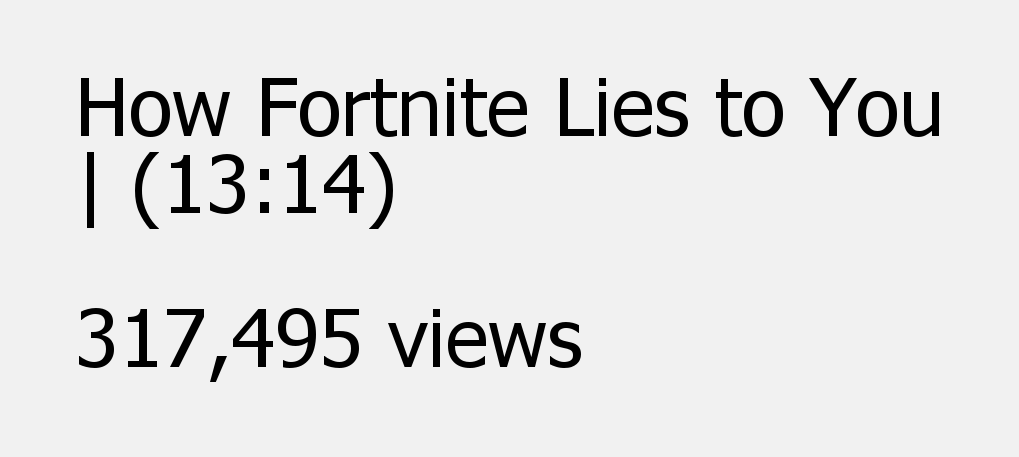
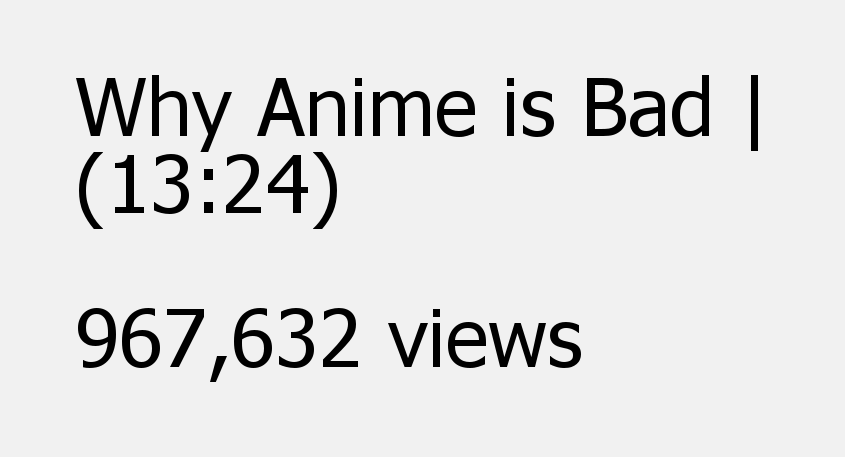
config file, scheduling working

Changed region(s): [[0.0615, 0.1532, 0.9231, 0.5208], [0.0615, 0.674, 0.7077, 0.8271]]

diff --git a/bot.js b/bot.js
@@ -1,10 +1,22 @@
-const PAGE_ID = "111183643597806"
[1 lines of base64/hex data omitted]
+/**
+ * VIDEO ESSAY BOT
+ * 
+ * Author: Declan Kirk
+ * Created: 08/09/2019
+ * 
+ * Posts hypothetical YouTube video essays to https://www.facebook.com/videoessaybot every hour.
+ */
 
+const config = require('../config/breadtubebot.json');
+const PAGE_ID = config.page_id;
+const TOKEN = config.token;
 const FB = require('fb');
 FB.setAccessToken(TOKEN);
 const cron = require("node-cron");
 
+/**
+ * Image upload, scheduled for each hour
+ */
 const task = cron.schedule("0 * * * *", () => {
     genImg();
     var FormData = require('form-data');
@@ -59,7 +71,7 @@ function genTitle() {
 }
 
 /**
- * Generates image
+ * Generates basic image
  */
 function genImg() {
     var text2png = require('text2png');
